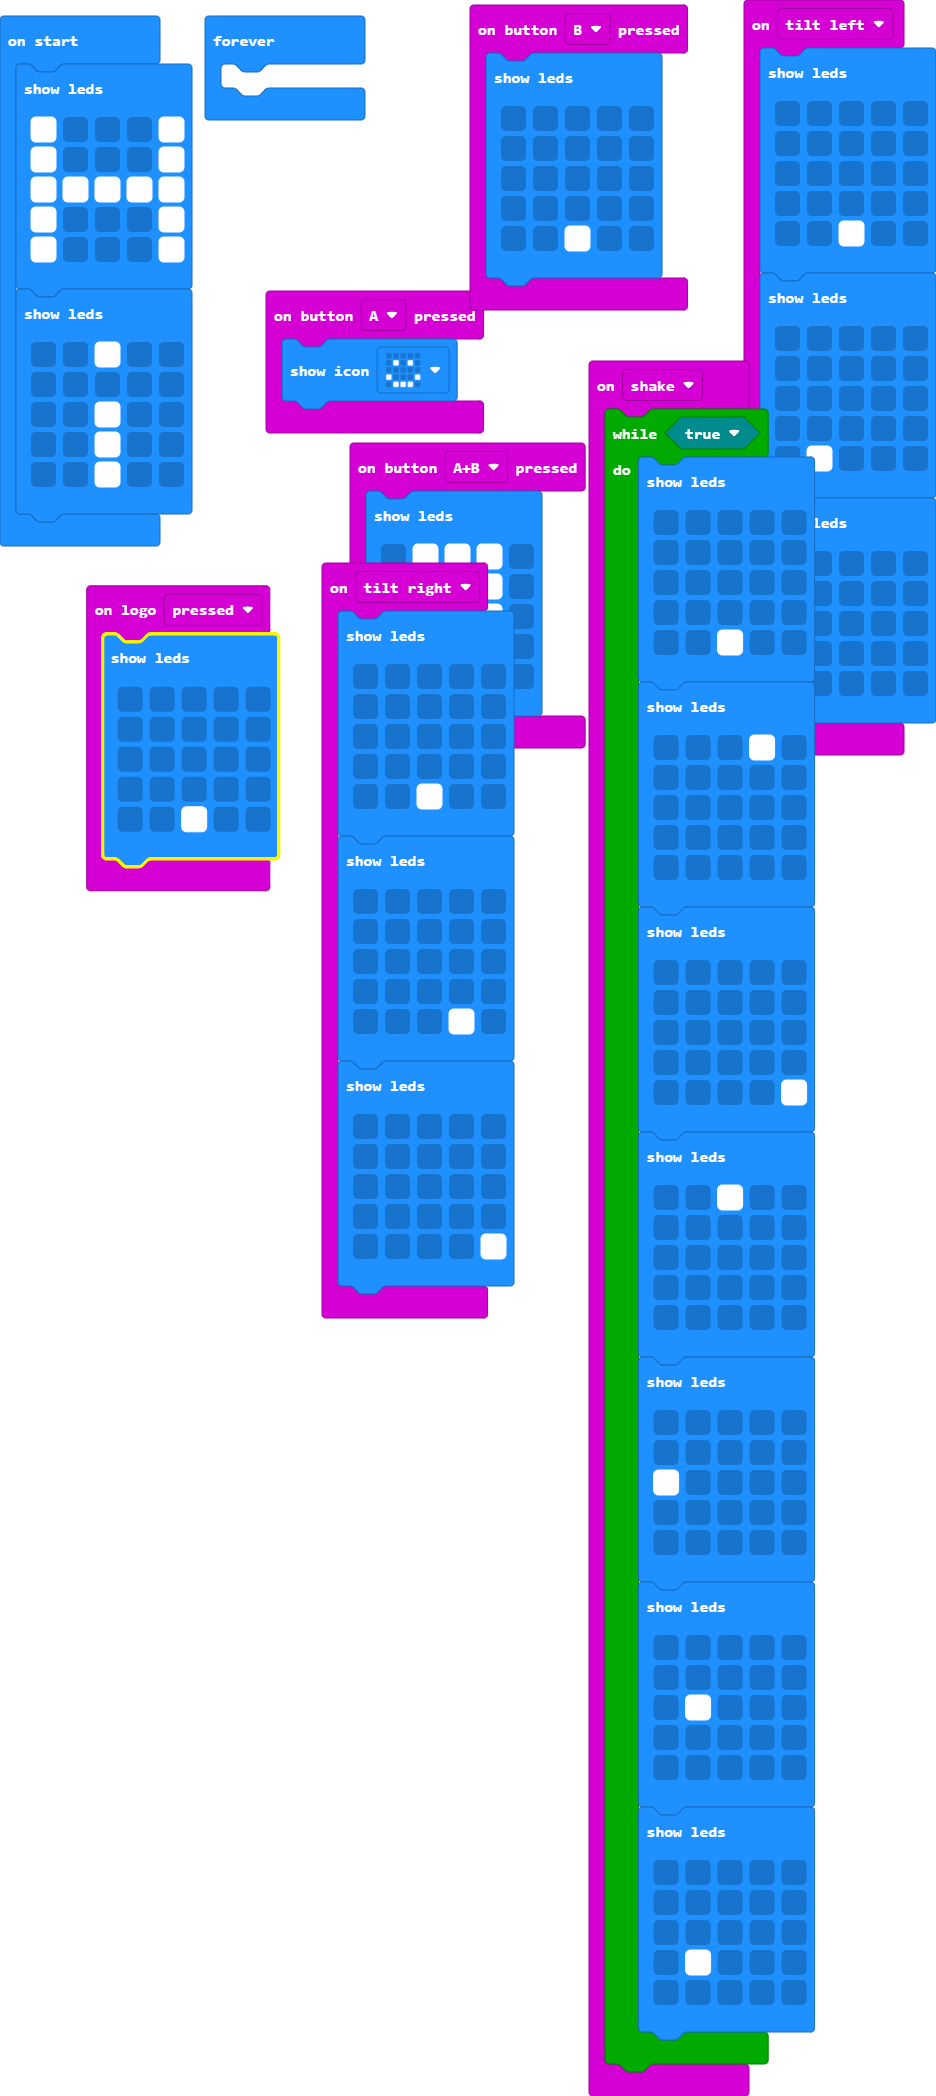
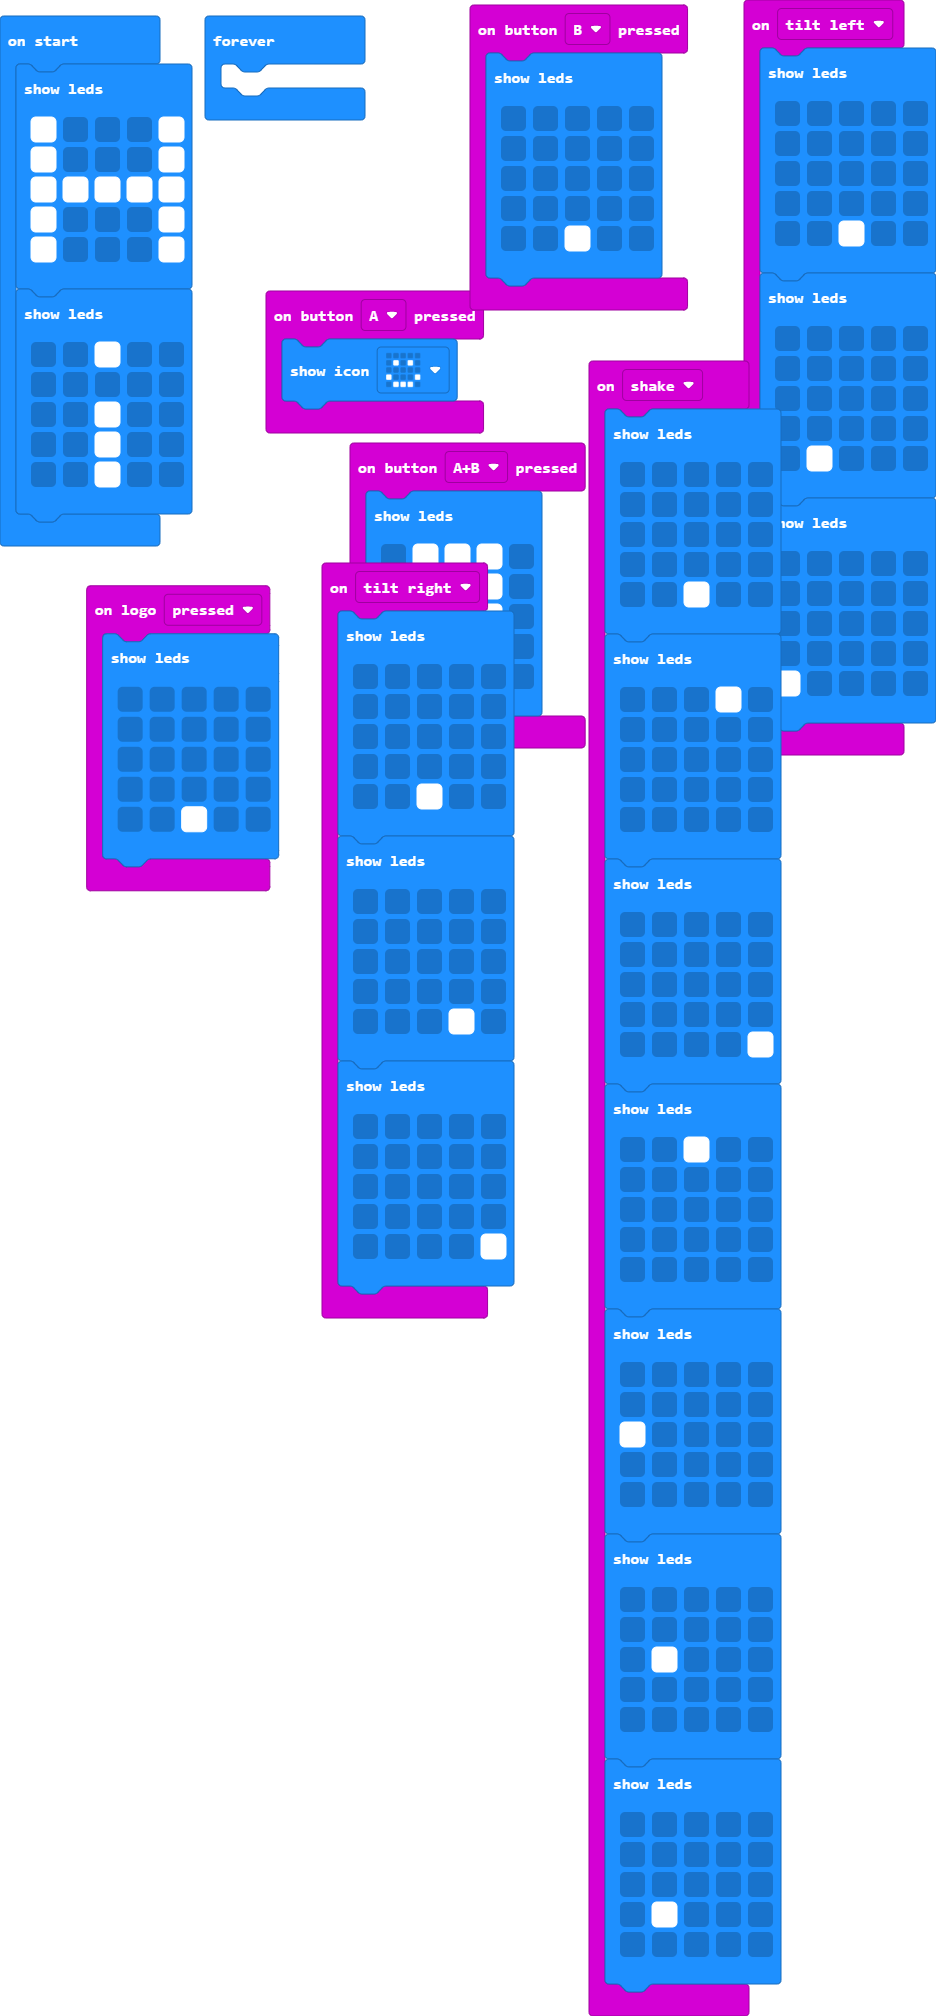
Update main.blocks, main.ts

Changed region(s): [[0.2788, 0.0, 1.0, 1.0], [0.0, 0.0, 0.3098, 0.4688], [0.2169, 0.0, 0.4028, 0.0625]]

diff --git a/main.ts b/main.ts
@@ -43,57 +43,55 @@ input.onButtonPressed(Button.B, function () {
         `)
 })
 input.onGesture(Gesture.Shake, function () {
-    while (true) {
-        basic.showLeds(`
-            . . . . .
-            . . . . .
-            . . . . .
-            . . . . .
-            . . # . .
-            `)
-        basic.showLeds(`
-            . . . # .
-            . . . . .
-            . . . . .
-            . . . . .
-            . . . . .
-            `)
-        basic.showLeds(`
-            . . . . .
-            . . . . .
-            . . . . .
-            . . . . .
-            . . . . #
-            `)
-        basic.showLeds(`
-            . . # . .
-            . . . . .
-            . . . . .
-            . . . . .
-            . . . . .
-            `)
-        basic.showLeds(`
-            . . . . .
-            . . . . .
-            # . . . .
-            . . . . .
-            . . . . .
-            `)
-        basic.showLeds(`
-            . . . . .
-            . . . . .
-            . # . . .
-            . . . . .
-            . . . . .
-            `)
-        basic.showLeds(`
-            . . . . .
-            . . . . .
-            . . . . .
-            . # . . .
-            . . . . .
-            `)
-    }
+    basic.showLeds(`
+        . . . . .
+        . . . . .
+        . . . . .
+        . . . . .
+        . . # . .
+        `)
+    basic.showLeds(`
+        . . . # .
+        . . . . .
+        . . . . .
+        . . . . .
+        . . . . .
+        `)
+    basic.showLeds(`
+        . . . . .
+        . . . . .
+        . . . . .
+        . . . . .
+        . . . . #
+        `)
+    basic.showLeds(`
+        . . # . .
+        . . . . .
+        . . . . .
+        . . . . .
+        . . . . .
+        `)
+    basic.showLeds(`
+        . . . . .
+        . . . . .
+        # . . . .
+        . . . . .
+        . . . . .
+        `)
+    basic.showLeds(`
+        . . . . .
+        . . . . .
+        . # . . .
+        . . . . .
+        . . . . .
+        `)
+    basic.showLeds(`
+        . . . . .
+        . . . . .
+        . . . . .
+        . # . . .
+        . . . . .
+        `)
 })
 input.onGesture(Gesture.TiltRight, function () {
     basic.showLeds(`
